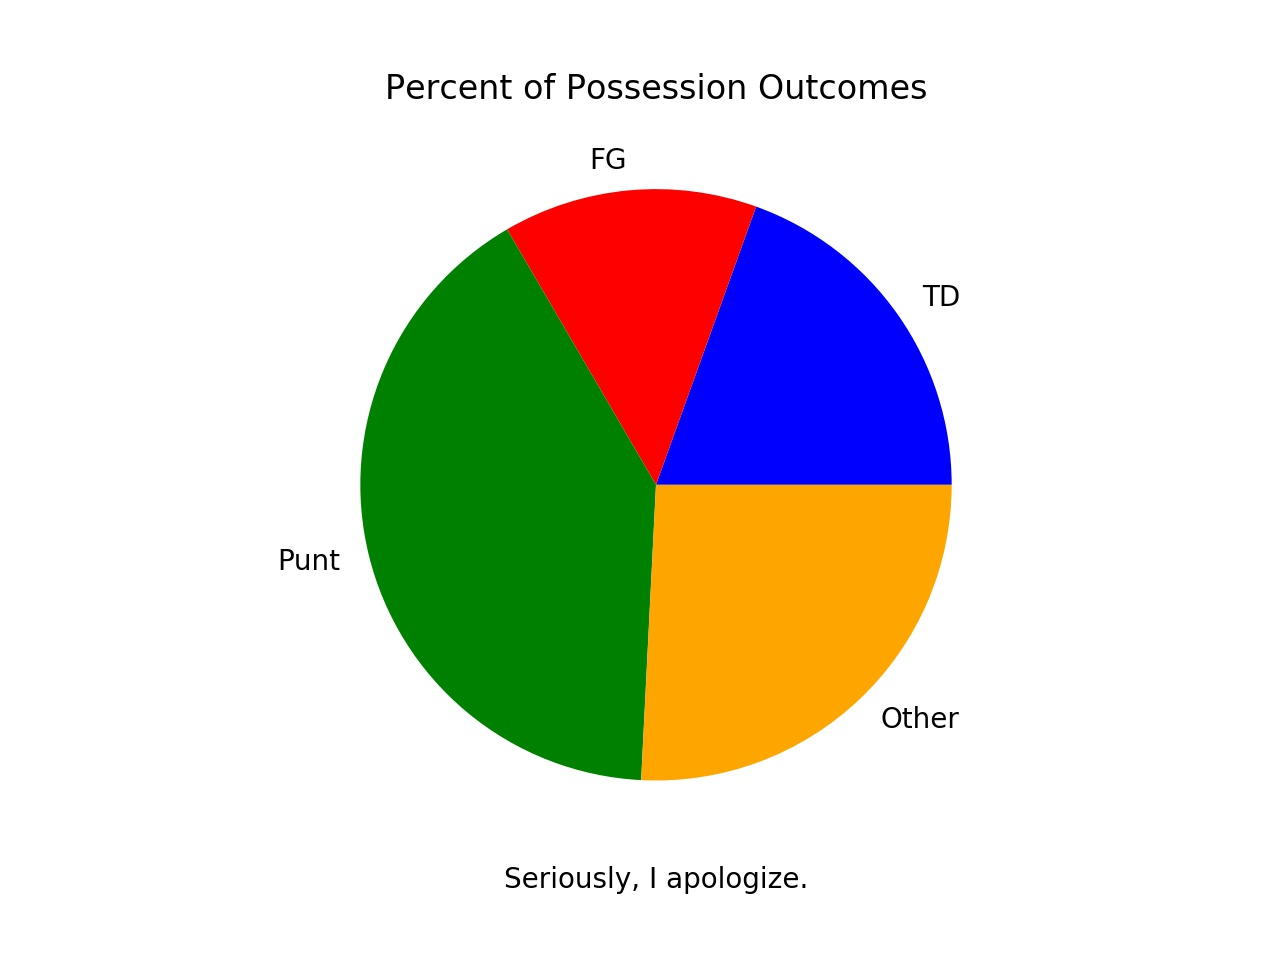
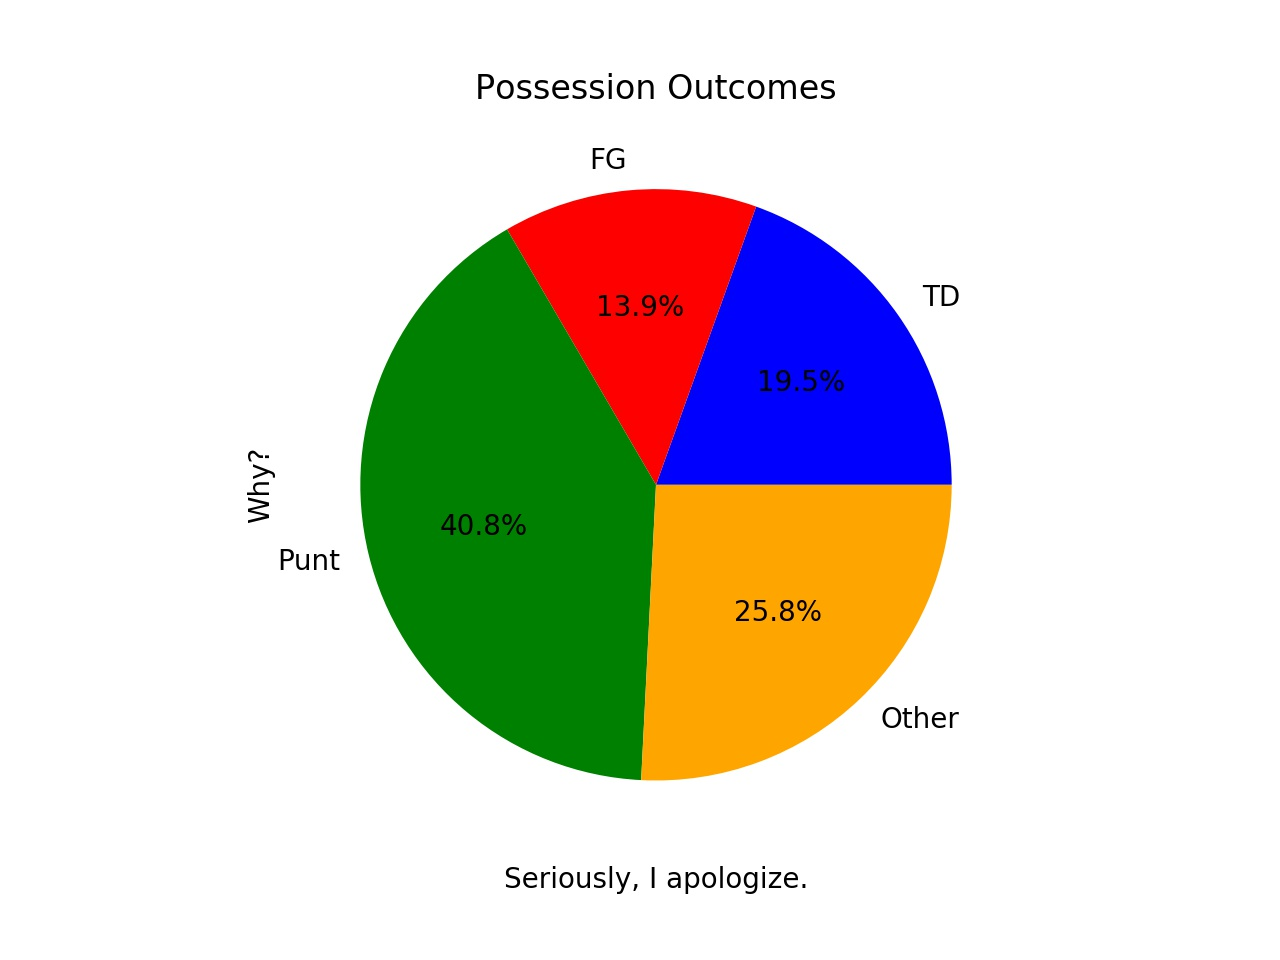
second final

diff --git a/src/explore.py b/src/explore.py
@@ -4,6 +4,7 @@ import matplotlib.pyplot as plt
 from football_func import *
 from random import sample
 from team_dict import team_dict
+import datetime as dt
 
 plt.style.use('fivethirtyeight')
 
@@ -79,7 +80,7 @@ def plot_fave_totals(df):
     ax.plot(df['fave_EP'], df['fave_EP'], linestyle = '--', linewidth = 1, color = 'r', alpha = 0.75)
     ax.set_ylabel('Actual')
     ax.set_xlabel('Expected')
-    ax.set_title('Actual v Expected Point -- Favorites')
+    ax.set_title('Actual v Expected Points -- Favorites')
     plt.tight_layout(pad = 1)
     plt.savefig('images/favorites_points.jpeg')
     plt.close()
@@ -93,7 +94,7 @@ def plot_dawg_totals(df):
     ax.plot(df['dawg_EP'], df['dawg_EP'], linestyle = '--', linewidth = 1, color = 'r', alpha = 0.75)
     ax.set_ylabel('Actual')
     ax.set_xlabel('Expected')
-    ax.set_title('Actual v Expected Point -- Underdawgs')
+    ax.set_title('Actual v Expected Points -- Underdawgs')
     plt.tight_layout(pad = 1)
     plt.savefig('images/dawgs_points.jpeg')
     plt.close()
@@ -189,7 +190,7 @@ if __name__ == '__main__':
     plt.savefig('images/outcome_by_time.jpeg')
     plt.close()
 
-    hist = pd.read_csv('data/spreadspoke_scores.csv')
+    hist = pd.read_csv('data/Archive/spreadspoke_scores.csv')
     hist['schedule_date'] = pd.to_datetime(hist['schedule_date'])
     m0 = hist['schedule_date'] >= plays['game_date'].min()
     m1 = hist['schedule_date'] <= plays['game_date'].max()

diff --git a/README.md b/README.md
@@ -6,10 +6,12 @@ The goal of this project is to attempt to predict the outcome of a possession in
 
 ## The Data
 
-The data used for this analysis comes from two Kaggle datasets (found [here](https://www.kaggle.com/maxhorowitz/nflplaybyplay2009to2016) and [here](https://www.kaggle.com/tobycrabtree/nfl-scores-and-betting-data#spreadspoke_scores.csv)). The first dataset is every play in the NFL from 2009 to 2019. It contains ~450k plays with 255 different features. The second dataset contains historical information about NFL games all the way back to 1966. It has some ~12,500 games with 17 features detailing the games. From both datasets, the most important features for this analysis are the ones we can know before the start of a possession.
+The data used for this analysis comes from two Kaggle datasets (found [here](https://www.kaggle.com/maxhorowitz/nflplaybyplay2009to2016) and [here](https://www.kaggle.com/tobycrabtree/nfl-scores-and-betting-data#spreadspoke_scores.csv)). The first dataset contains every play in the NFL from 2009 through the 2018 season. It contains ~64k possessions composed of ~450k plays each with 255 different features. The second dataset contains historical information about NFL games all the way back to 1966. It has ~12,500 games with 17 features detailing the game locations, teams, outcomes, etc. 
+
+From both datasets, the most important features for this analysis are the ones we can know before the start of a possession.
 
 - Game Situation - Distance to the end zone, score, time left in the game, possessing team is home team, etc.
-- Team v Opponent - Relative strength, expected points in game, leading or trailing, possessing team is favorite, etc.
+- Team v Opponent - Relative strength (as captured by betting line/spread), expected points in game, leading or trailing, possessing team is favorite, etc.
 
 For the most part the game situation data is from the plays dataset and the team v opponent data is from the historical gambling set.
 
@@ -17,14 +19,16 @@ To minimize data leakage, I used the 2009 - 2017 seasons as my training data and
 
 ![](images/season_total.jpeg)
 
+Though there is a slight uptick in scoring in 2018, it doesn't appear to be anything substantial.
+
 ## The Features
 
-**Features from datasets**
+**Features from datasets:**
 
 | **Feature** | **Type** | **Description** |
 | --- | --- | --- |
 | yardline_100 | int | The distance from the end zone to start the possession. |
-| game_seconds_remaining | int | Total seconds remaining in the game (3600 seconds in game). |
+| game_seconds_remaining | int | Total seconds remaining in the game (3600 seconds in a game). |
 | posteam_score | int | Possessing team score. |
 | defteam_score | int | Defensive team score. |
 | posteam_timeouts_remaining | int | Possessing team timeouts (3 per half). |
@@ -57,9 +61,9 @@ There is a lot of co-linearity amongst these features (as several as just linear
 
 Exploring the data, I found some fairly obvious relationships exist between the prevalance of scoring and expected scoring.
 
-![](images/actual_total.jpeg))
+![](images/actual_total.jpeg)
 
-Surprise! Games expected to have a more of points, generally have more points!
+**Surprise!** Games expected to have a more of points, generally have more points!
 
 ![](images/favorites_points.jpeg)
 
@@ -67,7 +71,7 @@ Interestingly, favorites appear to underperform expectation....
 
 ![](images/dawgs_points.jpeg)
 
-But, so do underdogs. Seems like Vegas might know something about human behavior (it's way less fun to bet the under).
+But, so do underdogs. Seems like Vegas might know something about human behavior (*hint: it's way less fun to bet the under*).....
 
 There are also some interesting relationships between time and field position and the outcome of a possession.
 
@@ -85,7 +89,7 @@ Most of the noteworthy information here is in the last parts of each half. If a 
 
 ## Predicting Outcomes
 
-Possession outcomes are pretty random and don't necessarily lend themselves well to prediction. Random chance would guess correctly about 25% of the time, but since our outcomes are not uniformly distributed, our baseline for a prediction model is to predict that every possession would result in a punt, which occurs 40.6% of the time (in our training data). Of the 60k possesions, the breakdown of outcomes is:
+Possession outcomes are pretty random and don't necessarily lend themselves well to prediction. Random chance would guess correctly about 25% of the time, but since our outcomes are not uniformly distributed, our baseline for a prediction model is to predict that every possession would result in a punt, which occurs 40.6% of the time (in our training data). Of the ~58k training possesions, the breakdown of outcomes is:
 
 | **TD** | **FG** | **Punt** | **Other** |
 | --- | --- | --- | --- | 
@@ -104,6 +108,9 @@ Possession outcomes are pretty random and don't necessarily lend themselves well
 | AdaBoost Classifier | 51.4% | 49.8% |
 | MLP | 52.0% | 50.4% |
 | Naive Bayes | 46.8% | You get the idea....|
+| Random Forest (Gen2) | 50.7% | 49.4% |
+
+I tried all the models, but what I found was that the issue is not a question of which model I chose to throw at the data, but the features I chose to throw at the models. 
 
 ## Random Forest
 
@@ -119,11 +126,11 @@ Random Forests performed almost as well as the MLP model and have the bonus of m
 
 ![](images/rf2.jpeg)
 
-This change resulted in a degradation of performance (down to 49.4%), but the feature importances were slightly different.
+The additional features resulted in a slight degradation of performance (down to 49.4%), but the new features were able to pop into the top 7. This didn't immediately make sense to me, and it's something I'd like to look into for future work.
 
 ## People: Not as smart as trees.....(or computers)
 
-To really understand how impressive an accuracy of over 50% is, I put some humans to the test. I gave some of our classmates 100 randomly sampled possessions, giving them only the same information as I gave the machine. The names of the participants have been changed to protect the innocent
+To really understand whether or not it's impressive for the machine to get an accuracy of over 50%, I put some humans to the test. I gave some of our classmates 100 randomly sampled possessions, giving them only the same information as I gave the machine. *The names of the participants have been changed to protect the innocent.*
 
 | **Name** | **Accuracy** |
 | --- | --- |
@@ -132,13 +139,13 @@ To really understand how impressive an accuracy of over 50% is, I put some human
 | Gallison | 24% |
 | **Dohn** | **47%** |
 | Gatherer | 44% |
-| Unabel | 38.%% |
+| Unabel | 38%% |
 
-Turns out, 50.4% is pretty good!
+Turns out, 50.4% is pretty good - at least compared to us!
 
 ## Conclusions
 
-It is incredibly difficult to predict the outcome of a possession at the start of it (at least it is difficult for all possession - even if there are certain types that are easy). Fortunately for me, this ia good thing.
+It is incredibly difficult to predict the outcome of a possession at the start of it (at least it is difficult for all possession - even if there are certain types that are easy). Fortunately for me, this is good thing. The randomness of the outcomes makes for a more compelling and fun experience trying to predict what will happen.
 
 ## Future Work
 - Try reducing the history/training set - more heavily weighting the more recent information.
